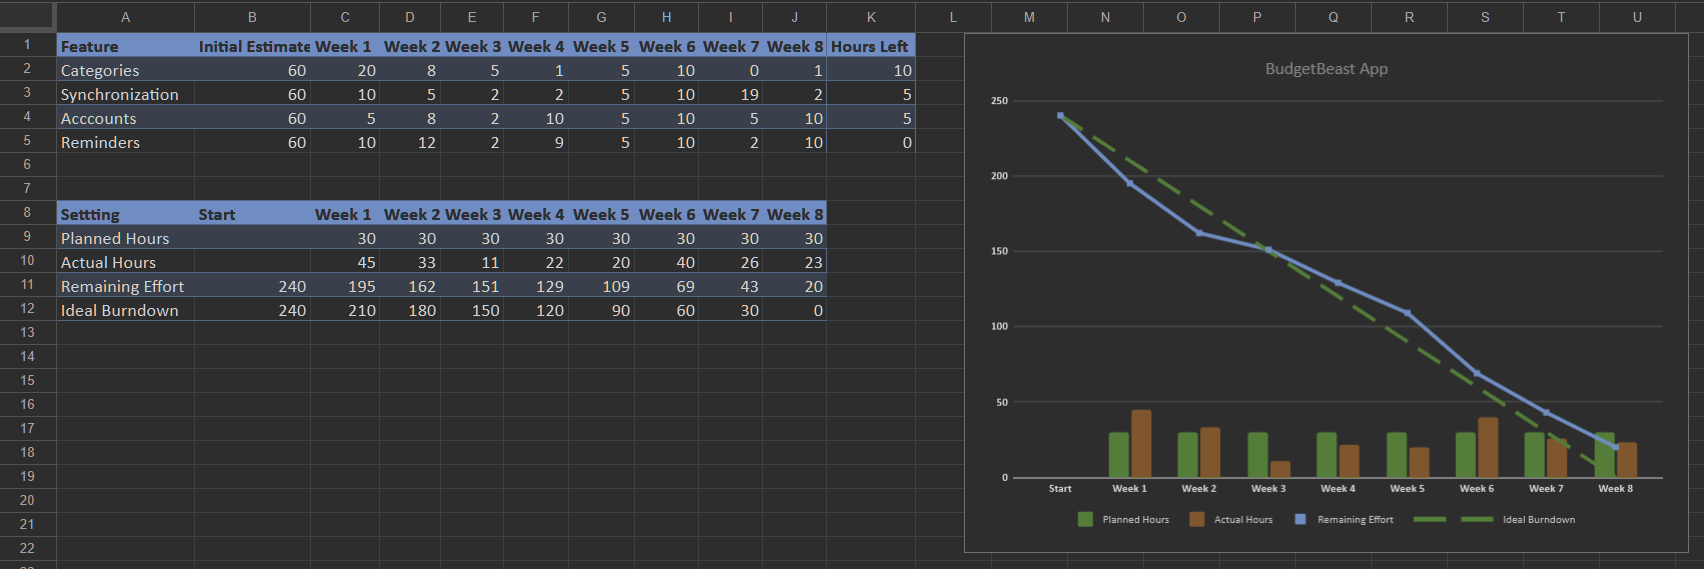
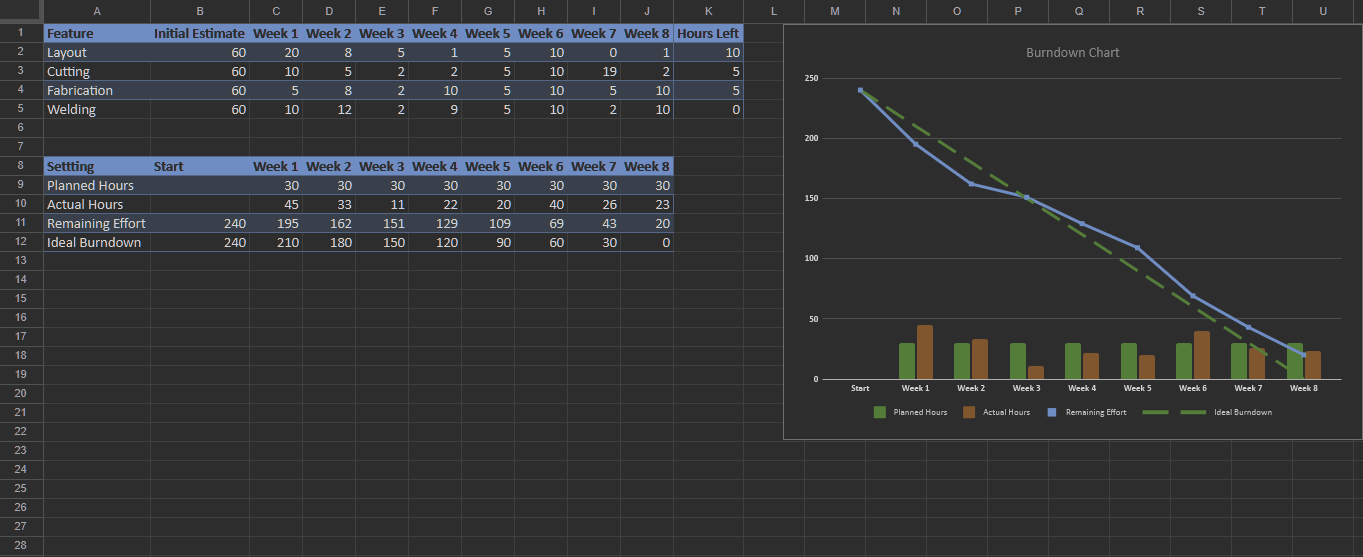
The portfolio section has been change

diff --git a/index.html b/index.html
@@ -51,7 +51,7 @@
 						<h1>Jonathan Scott</h1>
 						<h2 class="rotate">COMPUTER SCIENCE STUDENT, MANAGER &AMP; QUALITY CONTROL, STEEL FABRICATOR</h2>
 						<p>
-							With 17+ years of experience in the steel fabrication industry to cultivate a passion for self-directed 
+							With 17+ years of experience in the steel fabrication industry I cultivate a passion for self-directed 
 							learning and independent research. Continuously acquired knowledge across various technical and managerial 
 							disciplines, Leveraged mathematical and analytical skills to optimize workflows, demonstrating adaptability 
 							and innovative thinking applicable to technical and managerial contexts.
@@ -72,7 +72,6 @@
 						<h2>WHAT I DO</h2>
 					</div>
                 </div>  
-                
                 <div class="row">
 					<div class="col-md-4 col-xs-12 wow fadeInUp" data-wow-delay="0.6s">
 						<div class="media">
@@ -130,13 +129,12 @@
 								<h3 class="media-heading">Steel &AMP; Fabrication</h3>
 								<p>
 									Throughout my career in the steel and fabrication industry, I have developed key abilities such as adaptability 
-									and critical thinking, which have set me apart and enabled me to grow not only within the industry but also beyond 
-									my day-to-day responsibilities, driving the development of additional skills.
+									and critical thinking, that enabled me to grow not only within the industry but also beyond 
+									my day-to-day responsibilities, driving the development of additional skills and knowledge.
 								</p>
 							</div>
 						</div>
 					</div>
-                    
 				</div>
 			</div>
 		</div>
@@ -161,10 +159,9 @@
 							<img id="Developer" src="images/videoGame.png" class="img-responsive active" alt="Rotating Image">
 						</div>
 					</div>
-					</div>
 				</div>
-			</div> 
-		</div>
+			</div>
+		</div> 
 		<!-- end about tech-->
 
 		<!-- start about2 management-->
@@ -204,7 +201,8 @@
 					</div>
 					<div class="col-md-6 col-xs-11 wow fadeInRight" data-wow-delay="0.6s">
 						<div class="section3">
-						<img id="fab" src="images/chandelier.JPG" class="img-responsive active" alt="Chandelier img">
+							<img id="fab" src="images/chandelier.JPG" class="img-responsive active" alt="Chandelier img">
+						</div>
 					</div>
 				</div>
 			</div>
@@ -212,7 +210,7 @@
 		<!-- end about steel & fabrication -->		
 
 		<!-- start portfolio -->
-		<div id="portfolio" class="section">
+		<!-- <div id="portfolio" class="section">
 		<div class="container">
 			<div class="row">
 				<div class="col-md-12">
@@ -269,7 +267,34 @@
 				</div>
 			</div>
 		</div>
-	</div>
+	</div> -->
+
+	<div id="portfolio"> 
+			<div class="row">
+				<h2>PORTFOLIO</h2>
+					<div class="slider">
+						<div class="slide-track">
+			
+							<div class="slide"><img src="images/spaceX.png" alt="Data Science Project"></div>
+							<div class="slide"><img src="images/theNightFallAdventure.png" alt="Video Game Project"></div>
+							<div class="slide"><img src="images/chandelier.JPG" alt="Custom Chandelier"></div>
+							<div class="slide"><img src="images/burnDownChart.png" alt="Burn Down Chart"></div>
+							<div class="slide"><img src="images/chandelierSketchUp.JPEG" alt="SketchUp Model"></div>
+							<div class="slide"><img src="images/MJS.jpg" alt="My Personal Logo"></div>
+						
+							<div class="slide"><img src="images/spaceX.png" alt="Data Science Project"></div>
+							<div class="slide"><img src="images/theNightFallAdventure.png" alt="Video Game Project"></div>
+							<div class="slide"><img src="images/chandelier.JPG" alt="Custom Chandelier"></div>
+							<div class="slide"><img src="images/burnDownChart.png" alt="Burn Down Chart"></div>
+							<div class="slide"><img src="images/chandelierSketchUp.JPEG" alt="SketchUp Model"></div>
+							<div class="slide"><img src="images/MJS.jpg" alt="My Personal Logo"></div>
+
+						</div>
+					</div>	
+				</div>
+			</div>
+		</div>
+
 	<!-- end portfolio -->
 
 		<!-- start contact -->
@@ -305,6 +330,7 @@
 			</div>
 		</footer>
 		<!-- end footer -->
+
 
 	</div>
 

diff --git a/css/templatemo-style.css b/css/templatemo-style.css
@@ -197,7 +197,7 @@ h1,h2,h3,h4,h5
 #home .btn
     {
         background: transparent;
-        border: 2px solid #ffffff;
+        border: 3px solid #ffffff;
         color: #ffffff;
         font-size: 16px;
         font-weight: bold;
@@ -300,7 +300,7 @@ h1,h2,h3,h4,h5
 
 #about .row 
 {
-    height: 100%; /* Ensures rows stretch fully */
+    height: 500px; /* Ensures rows stretch fully */
     align-items: center; /* Centers content vertically */
 }    
 
@@ -311,6 +311,8 @@ h1,h2,h3,h4,h5
     {
         background: #000000;
         text-align: center;
+        min-height: 100vh; /* Makes the section cover the full viewport height */
+        
     }
 #portfolio h2
     {
@@ -449,3 +451,78 @@ footer hr
     opacity: 1; /* Fully visible */
 }
 /* End of image transition */
+
+/* Images slider */
+.slider {
+    height: 400px;
+    margin: auto;
+    position: relative;
+    width: 90%;
+    display: grid;
+    place-items: center;
+    overflow: hidden;
+}
+/* end of image slider */
+
+/* Slider-track */
+.slide-track {
+    display: flex;
+    width: calc(250px * 12); /* Adjust based on the number of images */
+    animation: scroll 40s linear infinite; /* Adjust speed as needed */
+}
+@keyframes scroll {
+    0% { transform: translateX(0); }
+    100% { transform: translateX(calc(-250px * 6)); } /* Adjust based on the number of images */
+    
+}
+
+.slide {
+    height: 200px;
+    width: 250px; 
+    display: flex;
+    align-items: center;
+    padding: 20px;
+    perspective: 80px;
+    cursor: pointer; /* Pointer cursor on hover */
+}
+
+.slide img {
+    width: 100%;
+    height: 60%;
+   
+}
+
+img {
+    width: 100%;
+    transition: transform 0.9s; /* Smooth transition effect */
+}
+
+/* Hover effect */
+img:hover {
+    transform: translateZ(20px); /* Scale up on hover */
+} 
+/* End of hover effect */
+
+/* Gradient Shadows */
+.slider::before,
+.slider::after {
+    background: linear-gradient(to right, rgb(16, 15, 17, 1) 0%,
+    rgba(235, 229, 229, 0 ) 100%);
+    content: '';
+    height: 100%;
+    position: absolute;
+    width: 10%; 
+    z-index: 2;
+}
+
+.slider::before {
+    left: 0;
+    top: 0;
+}
+
+.slider::after {
+    right: 0;
+    top: 0;
+    transform: rotateZ(180deg); /* Flip the gradient for the right side */
+}
+/* End of gradient shadows */

diff --git a/js/jquery.fullPage.js b/js/jquery.fullPage.js
@@ -645,7 +645,7 @@
         function scrollHandler(){
             var currentSection;
 
-        /***** 4/10/25 this section was commented out because it was causing unexpected behavior while browsing in a movil device. Jonathan *****/
+        /***** This section was commented out because it was causing unexpected behavior while browsing in a movil device. Jonathan 4/10/25 *****/
             // if(!options.autoScrolling || options.scrollBar){
             //     var currentScroll = $window.scrollTop();
             //     var visibleSectionIndex = 0;
